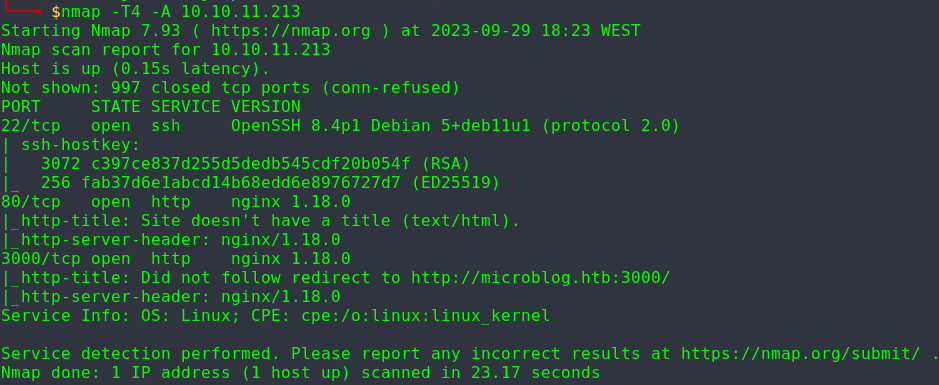
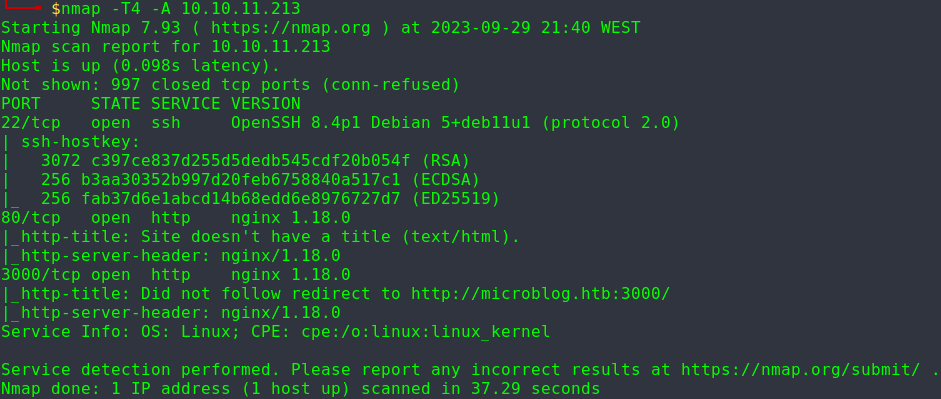
FormatVM complete

Changed region(s): [[0.0, 0.0, 0.7412, 0.8727], [0.0, 0.9039, 0.9883, 0.9974]]

diff --git a/AEV/P/Lab01/lab01-report-93444.md b/AEV/P/Lab01/lab01-report-93444.md
@@ -10,20 +10,76 @@ The login form on www.example.com does not seem to sanitize user input properly,
 
 The vulnerability was found using a MacBook Pro running macOS Big Sur Version 11.4, using the Google Chrome browser Version 92.0.4515.131. The SQLmap tool was used to identify the vulnerability.
 
-# Steps to Reproduce
+# Format Machine
 
-1. Navigate to www.example.com/login.
-2. In the password field, enter ' OR '1'='1.
-3. A database error message appears, indicating that the input is being processed as part of the SQL query.
+## Steps to Reproduce
 
-# Potential Risks and Impact
+### 1. Port mapping
 
-If exploited, an attacker could use this vulnerability to reveal the user password hashes stored in the database. This could lead to a significant data breach, causing substantial damage to the organization’s reputation and potential legal consequences.
+Begin by using `nmap` to map the machine open ports. When doing you will find that the machine exposes three ports.
 
-# Proposed Fixes
+![nmap recon](./FormatVM/00-nmap-recon.png)
 
-To mitigate this issue, it is recommended to implement proper input sanitization and parameterized queries or prepared statements to prevent SQL injection attacks.
+### 2. Visit addresses
+
+By running `curl` to the same address, we can see that a **domain** called _microblog_ and a subdomain called  _app_ are expected.
+
+Know this, you can add to these entries `/etc/hosts` since running `nslookup` results in no external server being able to resolve the hostname to this IP address.
+
+![nslookup](./FormatVM/03-nslookup.png)
+
+![etchosts](./FormatVM/04-etc-hosts.png)
+
+### 3. Visiting domains
+
+#### 3.1 [http://microblog.htb:3000](http://microblog.htb:3000)
+
+Visiting this domain you discover an exposed self-hosted Git repository.
+
+![gitea](./FormatVM/05-gitea.png)
+
+Exploring this you can discover a repository which appears to contain the code for an website.
+
+![blogeditor](./FormatVM/06-blog-editor.png)
+
+#### 3.1.1 Swagger API
+
+You will also find that an API is exposed, with the bonus of having the documentation available. This could be exploited in order to gain access of the repository service.
+
+![apiswagger](./FormatVM/07-swagger-api.png)
+
+### 3.2 [http://app.microblog.htb:80](http://app.microblog.htb:80)
+
+You will now be able to visit the website that is described by the code in the previous repo.
+
+![microblogapp](./FormatVM/08-microblog-app.png)
+
+#### 3.2.1 Spider
+
+We will now run **OWASP ZAP** _spider_ in order to easily explore the website.
+
+![spider](./FormatVM/09-spider.png)
+
+As you can see, there are various alerts raised by ZAP that should be addressed.
+
+![alerts](./FormatVM/09-zap-vulns.png)
+
+### Fuzzing domains
+
+Since in the repository it seemed has there would be more that just this simple pages, it might be a good idea to fuzz the domain in search for other subdomains and paths that may not be visible. Sure enough, another subdomain is found, _sunny_.
+
+![10-subomain-fuzz.png](./FormatVM/10-subomain-fuzz.png)
+
+After adding this subdomain to the hosts DNS resolution file, this is what you can find.
+
+![11-subomain-sunny.png](./FormatVM/11-subomain-sunny.png)
+
+## Attack Surface Overview
+
+For this machine the base attack surface should now be sufficient to carry out a deeper exploration. The most common approach would be to try and use BurpSuite and exploit the API by proxing the traffic and creating a test account and interact as much as possible with the application.
 
 # Author
 
 Surname, Firstname - email
+
+<P style="page-break-before: always">
